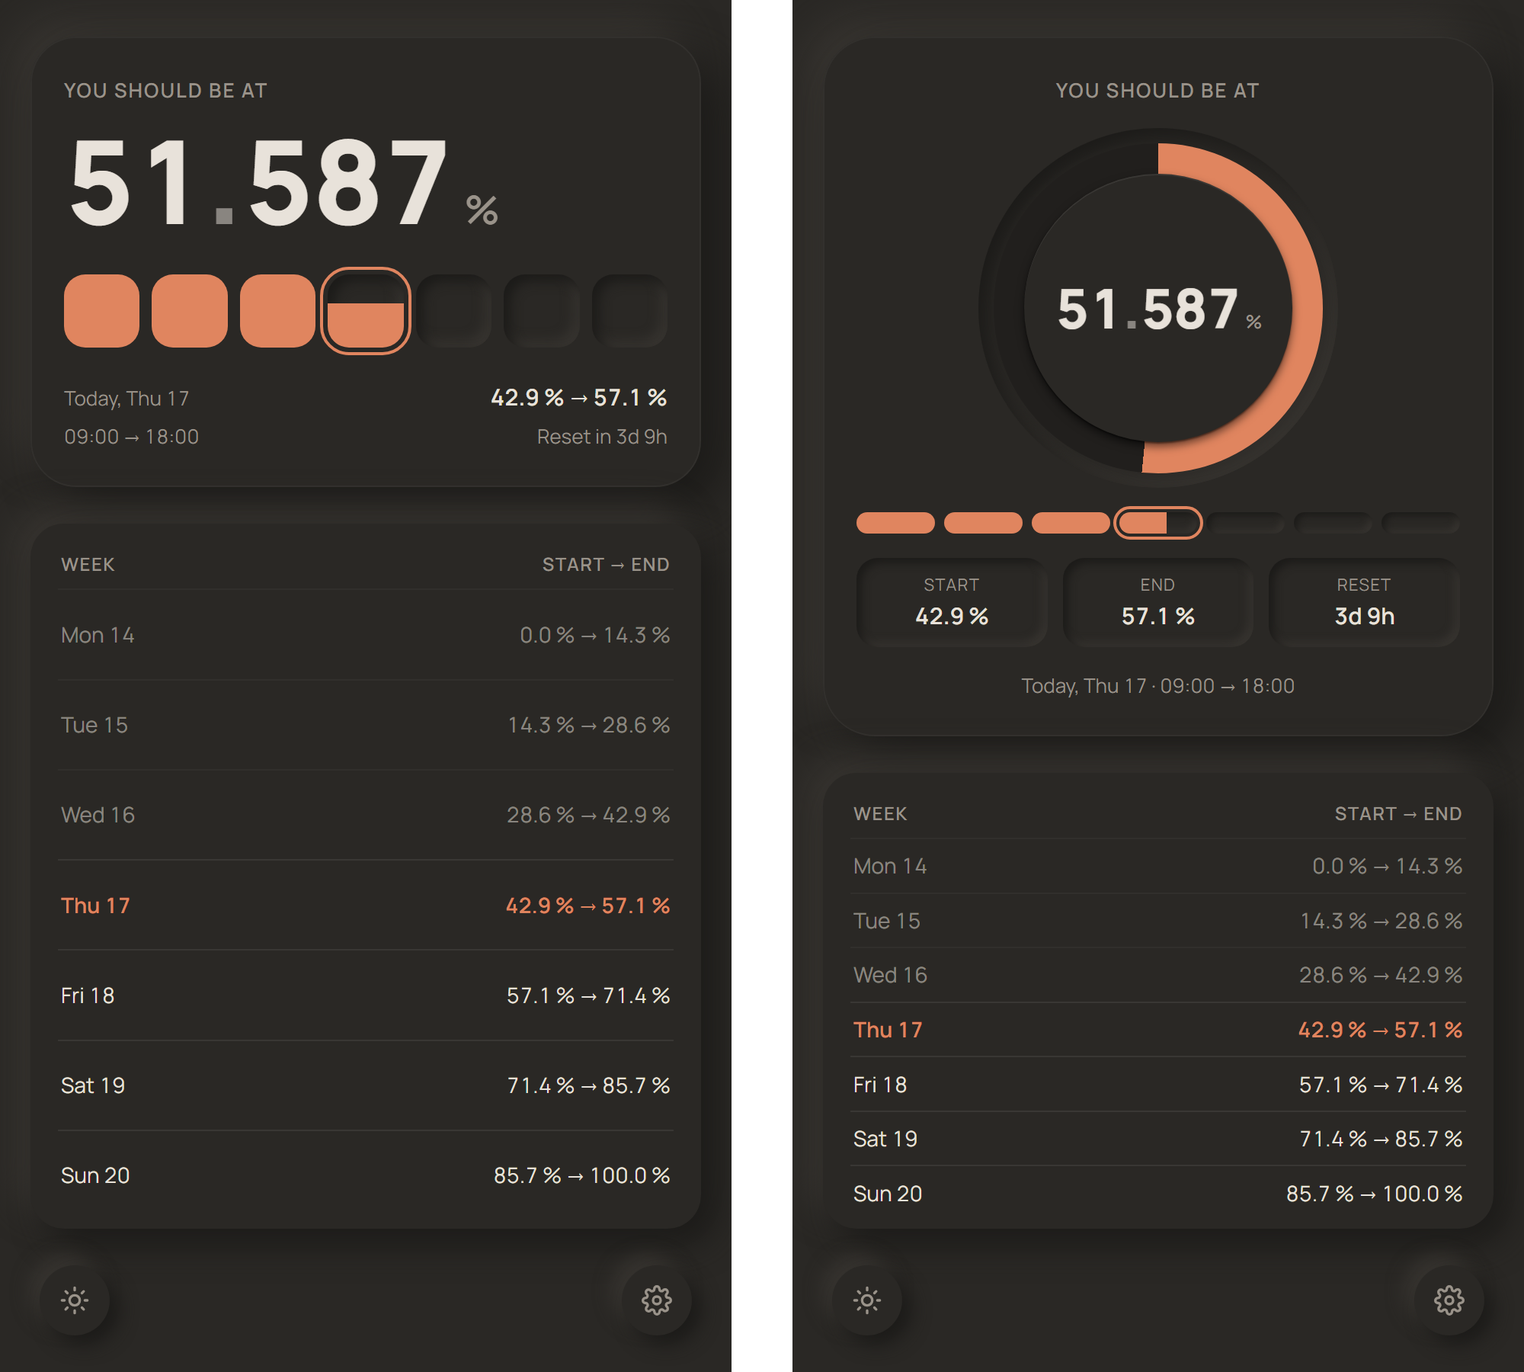
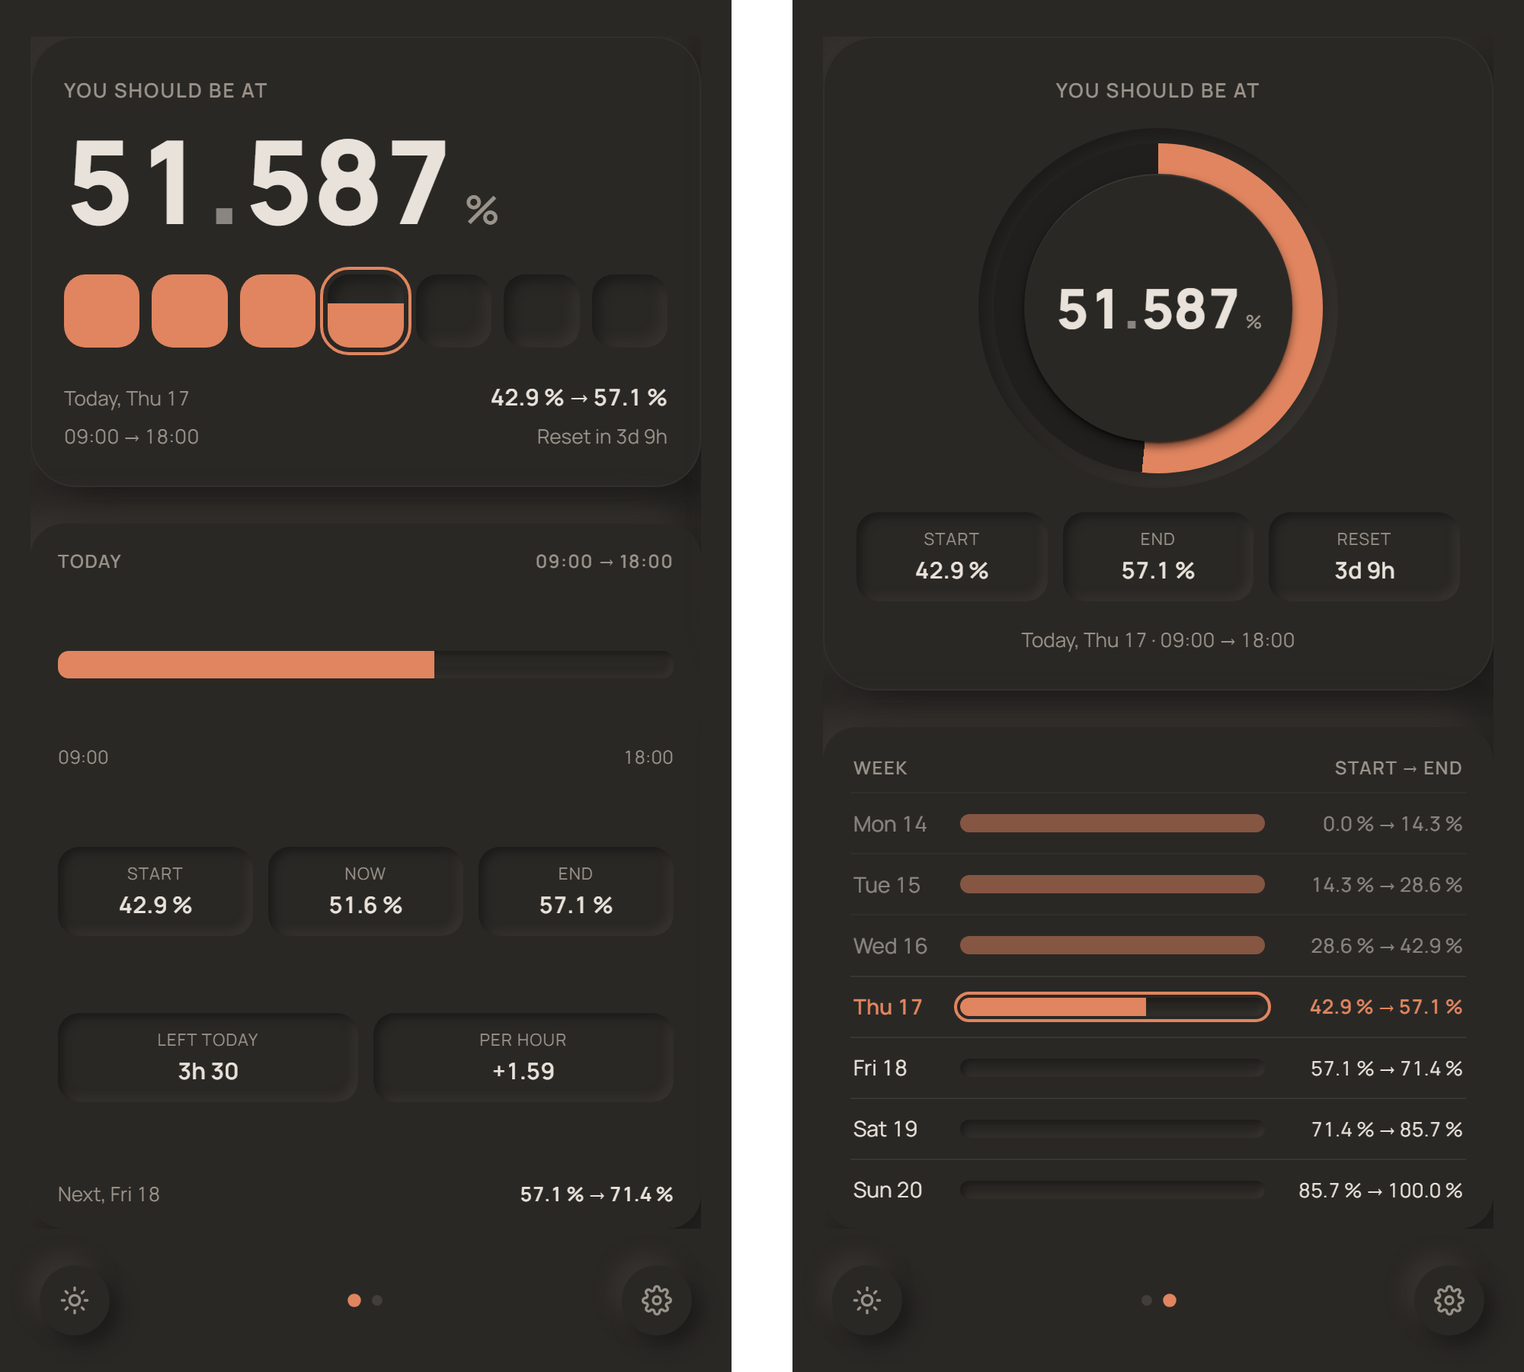
feat: two pages, Now and Week, swiped on a phone and side by side on a wide screen
Now shows the target this minute, the week as seven pills and today as
one gauge with its hours, start, now and end, the time left today and
the pace per hour. Week shows the target on an arc and one gauge per
day with the targets it starts and ends on. The layout setting goes:
the page last swiped to is the one kept. The sheet sinks onwards from
where it was released, and a frozen clock stops every transition.

diff --git a/index.html b/index.html
@@ -38,7 +38,8 @@
     display: flex; justify-content: center;
     padding: var(--frame) max(16px, env(safe-area-inset-right)) var(--frame) max(16px, env(safe-area-inset-left));
   }
-  main { width: 100%; max-width: 440px; min-height: calc(100svh - 2 * var(--frame)); display: grid; grid-template-rows: 1fr auto; gap: var(--gap); }
+  main { width: 100%; max-width: 440px; min-height: calc(100svh - 2 * var(--frame)); display: grid; grid-template-rows: 1fr auto; gap: var(--frame); }
+  @media (min-width: 960px) { main { max-width: 912px; } }
   button { all: unset; font: inherit; -webkit-tap-highlight-color: transparent; touch-action: manipulation; user-select: none; -webkit-user-select: none; }
   button:focus-visible { outline: 2px solid var(--accent); outline-offset: 2px; }
   .num { font-variant-numeric: tabular-nums; }
@@ -49,9 +50,19 @@
   .hero { border-radius: 30px; padding: 26px 22px 24px; background: var(--bg); box-shadow: 14px 14px 30px var(--dark), -12px -12px 26px var(--light), inset 0 0 0 1px var(--hi); }
   .card { border-radius: 22px; background: var(--bg); box-shadow: 10px 10px 22px var(--dark), -10px -10px 22px var(--light); }
   .well { box-shadow: inset 3px 3px 6px var(--dark), inset -3px -3px 6px var(--light); }
-  #view { display: grid; grid-template-rows: auto 1fr; gap: var(--gap); min-height: 0; }
+  /* The two pages sit in a row: one at a time and snapped on a phone, both at once on a wide screen. */
+  #view { display: flex; gap: 32px; min-height: 0; overflow-x: auto; overflow-y: hidden; scroll-snap-type: x mandatory; scrollbar-width: none; overscroll-behavior-x: contain; }
+  #view::-webkit-scrollbar { display: none; }
+  .pane { flex: 0 0 100%; min-width: 0; scroll-snap-align: start; display: grid; grid-template-rows: auto 1fr; gap: var(--gap); }
+
+  .dots { display: flex; gap: 8px; align-items: center; }
+  .dots i { width: 7px; height: 7px; border-radius: 50%; background: var(--off); transition: background-color 0.25s, transform 0.25s; }
+  .dots i.on { background: var(--accent); transform: scale(1.25); }
+  @media (min-width: 960px) { #view { overflow: visible; } .pane { flex: 1 1 0; } .dots { display: none; } }
+  .still * { transition: none !important; }
   /* The week list stretches over the height left under the hero; fit() shrinks the page when even that is too tall. */
   .week { display: flex; flex-direction: column; }
+  .now-card { display: flex; flex-direction: column; justify-content: space-between; gap: 14px; }
   .week .day { flex: 1; align-items: center; min-height: 30px; padding: 4px 2px; border-top: 1px solid var(--hair); font-size: 14px; }
   .big { display: flex; align-items: baseline; gap: 8px; font-weight: 800; line-height: 1; letter-spacing: -0.02em; }
   .big .unit { font-size: 0.34em; color: var(--muted); font-weight: 600; }
@@ -129,6 +140,7 @@
       <svg class="sun" viewBox="0 0 24 24" width="20" height="20" fill="none" stroke="currentColor" stroke-width="2" stroke-linecap="round"><circle cx="12" cy="12" r="4"/><path d="M12 2v2M12 20v2M4.9 4.9l1.4 1.4M17.7 17.7l1.4 1.4M2 12h2M20 12h2M4.9 19.1l1.4-1.4M17.7 6.3l1.4-1.4"/></svg>
       <svg class="moon" viewBox="0 0 24 24" width="20" height="20" fill="none" stroke="currentColor" stroke-width="2" stroke-linecap="round" stroke-linejoin="round"><path d="M21 12.8A9 9 0 1 1 11.2 3a7 7 0 0 0 9.8 9.8z"/></svg>
     </button>
+    <div class="dots" id="dots" aria-hidden="true"><i></i><i></i></div>
     <button type="button" id="gear" class="knob" aria-label="Settings" aria-haspopup="dialog">
       <svg viewBox="0 0 24 24" width="20" height="20" fill="none" stroke="currentColor" stroke-width="2" stroke-linecap="round" stroke-linejoin="round"><circle cx="12" cy="12" r="3"/><path d="M19.4 15a1.7 1.7 0 0 0 .3 1.8l.1.1a2 2 0 1 1-2.8 2.8l-.1-.1a1.7 1.7 0 0 0-1.8-.3 1.7 1.7 0 0 0-1 1.5V21a2 2 0 1 1-4 0v-.1a1.7 1.7 0 0 0-1.1-1.5 1.7 1.7 0 0 0-1.8.3l-.1.1a2 2 0 1 1-2.8-2.8l.1-.1a1.7 1.7 0 0 0 .3-1.8 1.7 1.7 0 0 0-1.5-1H3a2 2 0 1 1 0-4h.1a1.7 1.7 0 0 0 1.5-1.1 1.7 1.7 0 0 0-.3-1.8l-.1-.1a2 2 0 1 1 2.8-2.8l.1.1a1.7 1.7 0 0 0 1.8.3H9a1.7 1.7 0 0 0 1-1.5V3a2 2 0 1 1 4 0v.1a1.7 1.7 0 0 0 1 1.5 1.7 1.7 0 0 0 1.8-.3l.1-.1a2 2 0 1 1 2.8 2.8l-.1.1a1.7 1.7 0 0 0-.3 1.8V9a1.7 1.7 0 0 0 1.5 1H21a2 2 0 1 1 0 4h-.1a1.7 1.7 0 0 0-1.5 1z"/></svg>
     </button>
@@ -147,11 +159,6 @@
   </div>
   </div>
   <div id="settings" style="display:grid;gap:10px">
-      <div class="caps-sm" style="margin-top:12px">Layout</div>
-      <div class="segmented well" role="radiogroup" aria-label="Layout" id="layout">
-        <button type="button" role="radio" data-value="relief">Relief</button>
-        <button type="button" role="radio" data-value="cadran">Dial</button>
-      </div>
       <div class="caps-sm" style="margin-top:12px">Usage reset</div>
       <div class="segmented well" role="radiogroup" aria-label="Reset day" id="weekday"></div>
       <div style="display:flex;gap:12px" data-row>
@@ -273,8 +280,9 @@ const settings = loadSettings();
 const asked = new URLSearchParams(location.search).get("layout");
 if (VALID.layout(asked)) settings.layout = asked;
 // A moment named in the address freezes the clock there, to look at the page at a given time.
-const frozen = new Date(new URLSearchParams(location.search).get("at"));
+const frozen = new Date(new URLSearchParams(location.search).get("at") || NaN);
 const clock = () => Number.isNaN(frozen.getTime()) ? new Date() : new Date(frozen);
+if (!Number.isNaN(frozen.getTime())) document.documentElement.classList.add("still");
 const $ = (id) => document.getElementById(id);
 
 // Rolling counter: one column per position, holding the ten digits three times over so that
@@ -354,6 +362,9 @@ const slot = (s, i, horizontal) => {
     `<div class="fill${horizontal ? " h" : ""}" data-fill="${i}" style="${pos}:${(s.before * 100).toFixed(2)}%"></div>`;
 };
 
+const stat = (k, val, attr = "") => `<div class="stat well"><div class="k">${k}</div><div class="v" ${attr}>${val}</div></div>`;
+
+// Now: the target this minute, the week as seven pills, and today's hours as one gauge.
 function reliefView(v) {
   return `
   <section class="hero">
@@ -367,17 +378,25 @@ function reliefView(v) {
     </div>
     <div class="row num muted" style="margin-top:6px;font-size:13px"><span>${v.todayHours}</span><span>Reset in ${v.left}</span></div>
   </section>
-  ${weekCard(v)}`;
+  <section class="card now-card" style="padding:16px 18px 14px">
+    <div class="row caps-sm"><span>Today</span><span>${v.todayHours}</span></div>
+    <div class="strips" style="height:18px" aria-hidden="true">
+      <div class="strip" style="flex:1"><div>${v.todayIndex >= 0 ? slot(v.slots[v.todayIndex], v.todayIndex, true) : ""}</div></div>
+    </div>
+    <div class="row num muted" style="font-size:12px;margin-top:-8px"><span>${v.dayStart}</span><span>${v.dayEnd}</span></div>
+    <div class="num" style="display:grid;grid-template-columns:1fr 1fr 1fr;gap:10px;white-space:nowrap">
+      ${stat("Start", v.todayFrom)}${stat("Now", "", "data-now")}${stat("End", v.todayTo)}
+    </div>
+    <div class="num" style="display:grid;grid-template-columns:1fr 1fr;gap:10px;white-space:nowrap">
+      ${stat("Left today", v.leftToday)}${stat("Per hour", v.perHour)}
+    </div>
+    <div class="row num" style="font-size:13px"><span class="muted">${v.nextLabel}</span><span style="font-weight:600">${v.nextRange}</span></div>
+  </section>`;
 }
 
-const weekCard = (v) => `
-  <section class="card week" style="padding:8px 18px 6px">
-    <div class="row caps-sm" style="padding:10px 2px 8px"><span>Week</span><span>start → end</span></div>
-    ${v.days.map((d) => `<div class="row num day ${d.isToday ? "today" : d.isPast ? "past" : ""}" style="${d.isToday ? "font-weight:600" : ""}"><span>${d.name} ${d.date}${d.clip}</span><span>${d.fromPct} → ${d.toPct}</span></div>`).join("")}
-  </section>`;
-
+// Week: the target on an arc, then one line per day of the week with its hours as a gauge and
+// the targets it starts and ends on.
 function cadranView(v) {
-  const stat = (k, val) => `<div class="stat well"><div class="k">${k}</div><div class="v">${val}</div></div>`;
   return `
   <section class="hero" style="border-radius:34px;display:grid;gap:16px;justify-items:center">
     <div class="caps">You should be at</div>
@@ -387,18 +406,40 @@ function cadranView(v) {
         <div class="big" style="font-size:${[19.5, 18.6, 17, 15.3, 13.6][settings.decimals]}cqw;gap:0.1em">${odo()}<span class="unit">%</span></div>
       </div>
     </div>
-    <div class="strips" aria-hidden="true">
-      ${v.slots.map((d, i) => `<div class="strip" style="flex:1"><div class="${d.isToday ? "ring" : ""}">${slot(d, i, true)}</div></div>`).join("")}
-    </div>
     <div class="num" style="display:grid;grid-template-columns:1fr 1fr 1fr;gap:10px;width:100%;white-space:nowrap">
       ${stat("Start", v.todayFrom)}${stat("End", v.todayTo)}${stat("Reset", v.left)}
     </div>
     <div class="num muted" style="font-size:13px;white-space:nowrap">${v.todayLabel} · ${v.todayHours}</div>
   </section>
-  ${weekCard(v)}`;
+  <section class="card week" style="padding:8px 18px 6px">
+    <div class="row caps-sm" style="padding:10px 2px 8px"><span>Week</span><span>start → end</span></div>
+    ${v.slots.map((d, i) => `<div class="row num day ${d.isToday ? "today" : d.isPast ? "past" : ""}" style="gap:12px;${d.isToday ? "font-weight:600" : ""}">
+      <span style="flex:0 0 58px">${d.name} ${d.date}</span>
+      <div class="strip" style="flex:1;height:12px" aria-hidden="true"><div class="${d.isToday ? "ring" : ""}">${slot(d, i, true)}</div></div>
+      <span style="flex:0 0 auto;min-width:118px;text-align:right;font-size:13px">${d.range}</span>
+    </div>`).join("")}
+  </section>`;
 }
 
 const VIEWS = { relief: reliefView, cadran: cadranView };
+
+// The page shown: scrolled to on a phone, remembered as the layout setting.
+const pageStep = (view) => view.clientWidth + 32;
+function showPage(index, smooth) {
+  const view = $("view");
+  view.scrollTo({ left: index * pageStep(view), behavior: smooth ? "smooth" : "instant" });
+  $("dots").querySelectorAll("i").forEach((d, i) => d.classList.toggle("on", i === index));
+}
+let paging = null;
+$("view").addEventListener("scroll", () => {
+  clearTimeout(paging);
+  paging = setTimeout(() => {
+    const view = $("view");
+    const index = Math.max(0, Math.min(LAYOUTS.length - 1, Math.round(view.scrollLeft / pageStep(view))));
+    $("dots").querySelectorAll("i").forEach((d, i) => d.classList.toggle("on", i === index));
+    if (LAYOUTS[index] !== settings.layout) { settings.layout = LAYOUTS[index]; saveSettings(settings); }
+  }, 100);
+}, { passive: true });
 
 let pace = () => 0;
 let slots = [];
@@ -411,6 +452,8 @@ function tick() {
     updateOdo(el, text);
     el.parentElement.setAttribute("aria-label", `${text} %`);
   });
+  const live = document.querySelector("[data-now]");
+  if (live) live.textContent = pct(target);
   const arc = document.querySelector("[data-arc]");
   if (arc) arc.style.background = `conic-gradient(var(--accent) ${(target * 3.6).toFixed(2)}deg, var(--track) 0)`;
   document.querySelectorAll("[data-fill]").forEach((el) => {
@@ -428,6 +471,7 @@ function render() {
   const at = (t) => (days.reduce((sum, d) => sum + Math.min(Math.max(t - d.from, 0), d.to - d.from), 0) / total) * 100;
   const today = days.find((d) => d.from <= now && now < d.to)
     || days.find((d) => d.from.toDateString() === now.toDateString());
+  const next = days.find((d) => d.from > now && d !== today);
   pace = at;
   // One gauge per day of the calendar week, Monday first, spanning that day's working hours.
   // What falls outside the current session is shown dark; the rest fills as time passes.
@@ -459,23 +503,35 @@ function render() {
       isToday: d === today, isPast: d.to <= now,
       fromPct: pct(at(d.from)), toPct: pct(at(d.to)),
     })),
-    slots: slots.map((s) => ({
-      isToday: s === current, before: s.before, after: s.after,
-    })),
+    slots: slots.map((s) => {
+      const day = days.find((d) => d.from.toDateString() === s.day.toDateString());
+      const rest = settings.restDays.includes(s.day.getDay());
+      return {
+        name: DAY_NAMES[s.day.getDay()], date: s.day.getDate(),
+        isToday: s === current, isPast: s.to <= now, before: s.before, after: s.after,
+        range: rest ? "off" : day ? `${pct(at(day.from))} → ${pct(at(day.to))}` : "-",
+      };
+    }),
+    todayIndex: slots.indexOf(current),
+    dayStart: settings.dayStart, dayEnd: settings.dayEnd,
+    nextLabel: next ? `Next, ${DAY_NAMES[next.from.getDay()]} ${next.from.getDate()}` : "Last day of the week",
+    nextRange: next ? `${pct(at(next.from))} → ${pct(at(next.to))}` : "",
     todayLabel: `Today, ${DAY_NAMES[now.getDay()]} ${now.getDate()}`,
     todayRange: today ? `${pct(at(today.from))} → ${pct(at(today.to))}` : "off",
     todayFrom: today ? pct(at(today.from)) : "-",
     todayTo: today ? pct(at(today.to)) : "-",
     todayHours: today ? `${hour(today.from)} → ${hour(today.to)}` : "off",
     left: fmtDuration(end - now),
+    leftToday: today && now < today.to ? fmtDuration(today.to - Math.max(now, today.from)) : "-",
+    perHour: `+${(100 * 3600000 / total).toFixed(2)}`,
   };
 
   // Rebuilding the view would restart the counter, so keep its node across refreshes.
   const view = $("view");
-  const kept = view.querySelector("[data-odo]");
-  view.innerHTML = (VIEWS[settings.layout] || reliefView)(v);
-  if (kept && view.dataset.layout === settings.layout) view.querySelector("[data-odo]").replaceWith(kept);
-  view.dataset.layout = settings.layout;
+  const kept = [...view.querySelectorAll("[data-odo]")];
+  view.innerHTML = LAYOUTS.map((l) => `<div class="pane">${VIEWS[l](v)}</div>`).join("");
+  view.querySelectorAll("[data-odo]").forEach((el, i) => { if (kept[i]) el.replaceWith(kept[i]); });
+  showPage(LAYOUTS.indexOf(settings.layout), false);
   tick();
   fit();
 }
@@ -495,7 +551,7 @@ function fit() {
   mainEl.style.minHeight = `${room / zoom}px`;
 }
 let refit = null;
-addEventListener("resize", () => { clearTimeout(refit); refit = setTimeout(fit, 80); });
+addEventListener("resize", () => { clearTimeout(refit); refit = setTimeout(() => { fit(); showPage(LAYOUTS.indexOf(settings.layout), false); }, 80); });
 document.fonts.ready.then(fit);
 
 // The reset-day row follows the chosen first day of the week.
@@ -511,7 +567,7 @@ function syncSettings() {
     $("weekday").dataset.weekStart = settings.weekStart;
     buildWeekdayRow();
   }
-  for (const id of ["layout", "weekday", "weekStart", "decimals"]) {
+  for (const id of ["weekday", "weekStart", "decimals"]) {
     $(id).querySelectorAll("button").forEach((b) => b.setAttribute("aria-checked", String(b.dataset.value === String(settings[id]))));
   }
   $("restDays").querySelectorAll("button").forEach((b) => {
@@ -560,7 +616,8 @@ function closeSheet() {
   if (sheet.hidden) return;
   closePicker();
   const veil = backdrop.animate([{ opacity: 1 }, { opacity: 0 }], { duration: 220, easing: "ease-in", fill: "forwards" });
-  const out = sheet.animate([{ transform: getComputedStyle(sheet).transform, opacity: 1 }, { transform: "translateY(80px)", opacity: 0 }], { duration: 220, easing: "ease-in", fill: "forwards" });
+  const y = new DOMMatrix(getComputedStyle(sheet).transform).f;
+  const out = sheet.animate([{ transform: `translateY(${y}px)`, opacity: 1 }, { transform: `translateY(${y + 100}px)`, opacity: 0 }], { duration: 220, easing: "ease-in", fill: "forwards" });
   afterAnimation(out, () => {
     sheet.hidden = backdrop.hidden = true;
     veil.cancel();
@@ -578,7 +635,7 @@ let drag = null;
 head.addEventListener("pointerdown", (e) => {
   if (e.button !== 0 || e.target.closest("button")) return;
   drag = { y: e.clientY, dy: 0 };
-  head.setPointerCapture(e.pointerId);
+  try { head.setPointerCapture(e.pointerId); } catch {}
 });
 head.addEventListener("pointermove", (e) => {
   if (!drag) return;
@@ -652,31 +709,17 @@ for (const wheel of Object.values(wheels)) {
 // A change of layout sinks the view into the background, then the new one rises out of it;
 // any other change fades the view in.
 function update(patch) {
-  const from = settings.layout;
   for (const [k, v] of Object.entries(patch)) if (VALID[k](v)) settings[k] = v;
   saveSettings(settings);
   syncSettings();
   applyTheme();
-  const view = $("view");
   if (Object.keys(patch).every((k) => k === "theme")) return;
-  if (settings.layout === from) {
-    const fade = view.animate([{ opacity: 1 }, { opacity: 0 }], { duration: 140, easing: "ease-in", fill: "forwards" });
-    afterAnimation(fade, () => {
-      fade.cancel();
-      render();
-      view.animate([{ opacity: 0 }, { opacity: 1 }], { duration: 260, easing: EASE });
-    });
-    return;
-  }
-  const sink = view.animate(
-    [{ transform: "scale(1)", opacity: 1, filter: "blur(0)" }, { transform: "scale(0.92)", opacity: 0, filter: "blur(3px)" }],
-    { duration: 220, easing: "ease-in", fill: "forwards" });
-  afterAnimation(sink, () => {
-    sink.cancel();
+  const view = $("view");
+  const fade = view.animate([{ opacity: 1 }, { opacity: 0 }], { duration: 140, easing: "ease-in", fill: "forwards" });
+  afterAnimation(fade, () => {
+    fade.cancel();
     render();
-    view.animate(
-      [{ transform: "scale(0.92)", opacity: 0, filter: "blur(3px)" }, { transform: "scale(1)", opacity: 1, filter: "blur(0)" }],
-      { duration: 380, easing: EASE });
+    view.animate([{ opacity: 0 }, { opacity: 1 }], { duration: 260, easing: EASE });
   });
 }
 
@@ -685,7 +728,6 @@ $("close").onclick = closeSheet;
 backdrop.onclick = closeSheet;
 document.addEventListener("keydown", (e) => { if (e.key === "Escape") { if (pickerKey) closePicker(); else closeSheet(); } });
 $("theme").onclick = () => update({ theme: document.documentElement.dataset.theme === "dark" ? "light" : "dark" });
-$("layout").onclick = (e) => { const b = e.target.closest("button"); if (b) update({ layout: b.dataset.value }); };
 $("weekday").onclick = (e) => { const b = e.target.closest("button"); if (b) update({ weekday: Number(b.dataset.value) }); };
 $("restDays").onclick = (e) => {
   const b = e.target.closest("button");

diff --git a/README.md b/README.md
@@ -15,10 +15,10 @@
 ---
 
 <p align="center">
-  <img src="docs/layouts-dark.png" width="760" alt="The two layouts side by side. Relief: the target percentage on a rolling counter, one gauge per day of the week, today's range and the time left before the reset, then the start and end target of every day. Dial: the same target on an arc, with today's start, end and the time left, then the same week list.">
+  <img src="docs/layouts-dark.png" width="760" alt="The two pages side by side. Now: the target percentage on a rolling counter, one pill per day of the week, today as a gauge with its hours, start, now and end, the time left today and the pace per hour. Week: the target on an arc, then one gauge per day of the week with the targets it starts and ends on.">
 </p>
 <p align="center">
-  <sub>The two layouts, Relief and Dial: the target right now, the week as seven gauges, and where each day starts and ends.</sub>
+  <sub>The two pages. Now: the target this minute, the week as seven pills, today as one gauge with its hours. Week: the target on an arc, then one gauge per day with the targets it starts and ends on.</sub>
 </p>
 
 A weekly budget of 100% is easy to burn in two days. Limits Pace shows the one number that
@@ -33,7 +33,8 @@ the next session are greyed out.
 ## What it does
 
 - A live target, ticking on a rolling counter, with the time left before the reset.
-- Two layouts to choose from, Relief and Dial, each with the week listed under it.
+- Two pages, Now and Week: a swipe moves between them on a phone, a wide screen shows both side
+  by side.
 - Your reset day and time, your working hours, the first day of the week and the number of
   decimals and the days off, behind the gear, all kept in the browser.
 - Light and dark, following the system until the button at the foot of the screen picks one.

diff --git a/CHANGELOG.md b/CHANGELOG.md
@@ -9,9 +9,10 @@
 - Works offline and installs as an app.
 - The target ticks live as a rolling counter, with a configurable number of decimals, and the
   page reloads itself when a new version is published.
-- Neumorphic interface following the system light or dark theme, in two layouts to choose
-  from in the settings: Relief (one pill per day) and Dial (an arc), each with the week listed
-  under it. Every setting is kept in the browser.
+- Neumorphic interface following the system light or dark theme, in two pages: Now (the target
+  this minute, the week as seven pills, today as one gauge) and Week (the target on an arc, one
+  gauge per day with its targets). A swipe moves between them on a phone; a wide screen shows
+  both. Every setting is kept in the browser.
 - The week is drawn as the calendar week, Monday to Sunday, one gauge per day filling across
   its working hours. Hours outside the current session are shown dark.
 - Working hours may end after midnight, and malformed settings fall back to their defaults.
